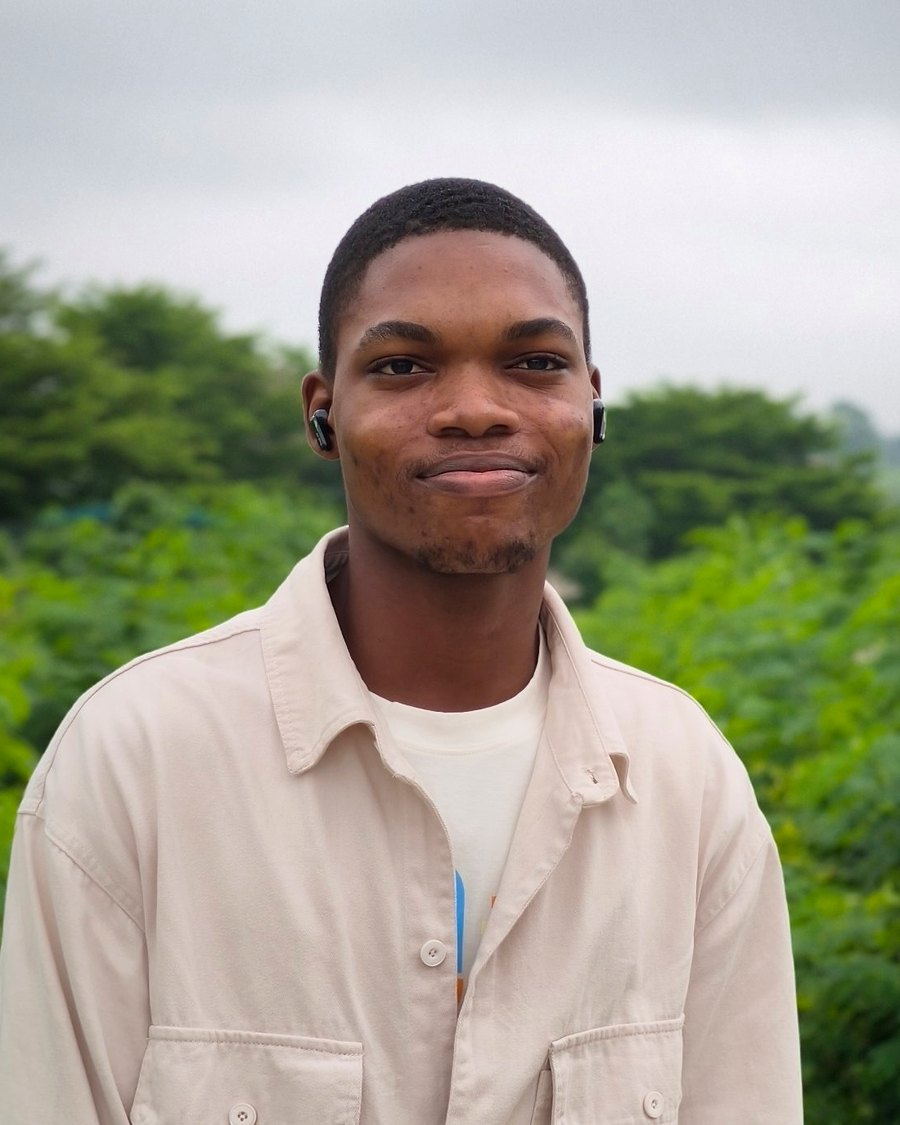
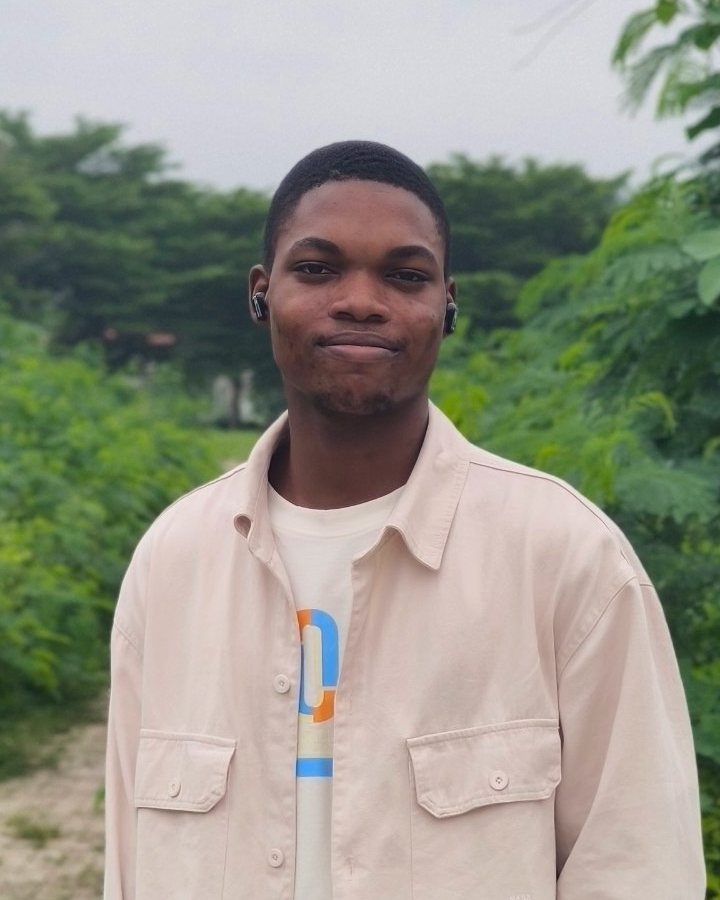
Use the portrait looking at the camera
- Chest-up 4:5 crop from the new photo, face centred, both shoulders in frame, light contrast only
- Served at its natural size (no upscaling); unused 800px file removed
- Share image and profile photo updated to match

diff --git a/src/components/sections/About.tsx b/src/components/sections/About.tsx
@@ -11,11 +11,11 @@ const About: React.FC = () => (
                 <div className="frame mx-auto max-w-sm md:mx-0">
                     <img
                         src={PROFILE_IMAGE}
-                        srcSet="/profile-480.webp 480w, /profile-800.webp 800w, /profile.webp 1100w"
+                        srcSet="/profile-480.webp 480w, /profile.webp 720w"
                         sizes="(min-width: 768px) 384px, 90vw"
-                        alt="David Peluola smiling, outdoors in front of green trees"
-                        width={800}
-                        height={1000}
+                        alt="David Peluola smiling at the camera, outdoors in front of green trees"
+                        width={720}
+                        height={900}
                         loading="lazy"
                         decoding="async"
                         className="block aspect-[4/5] w-full object-cover"
